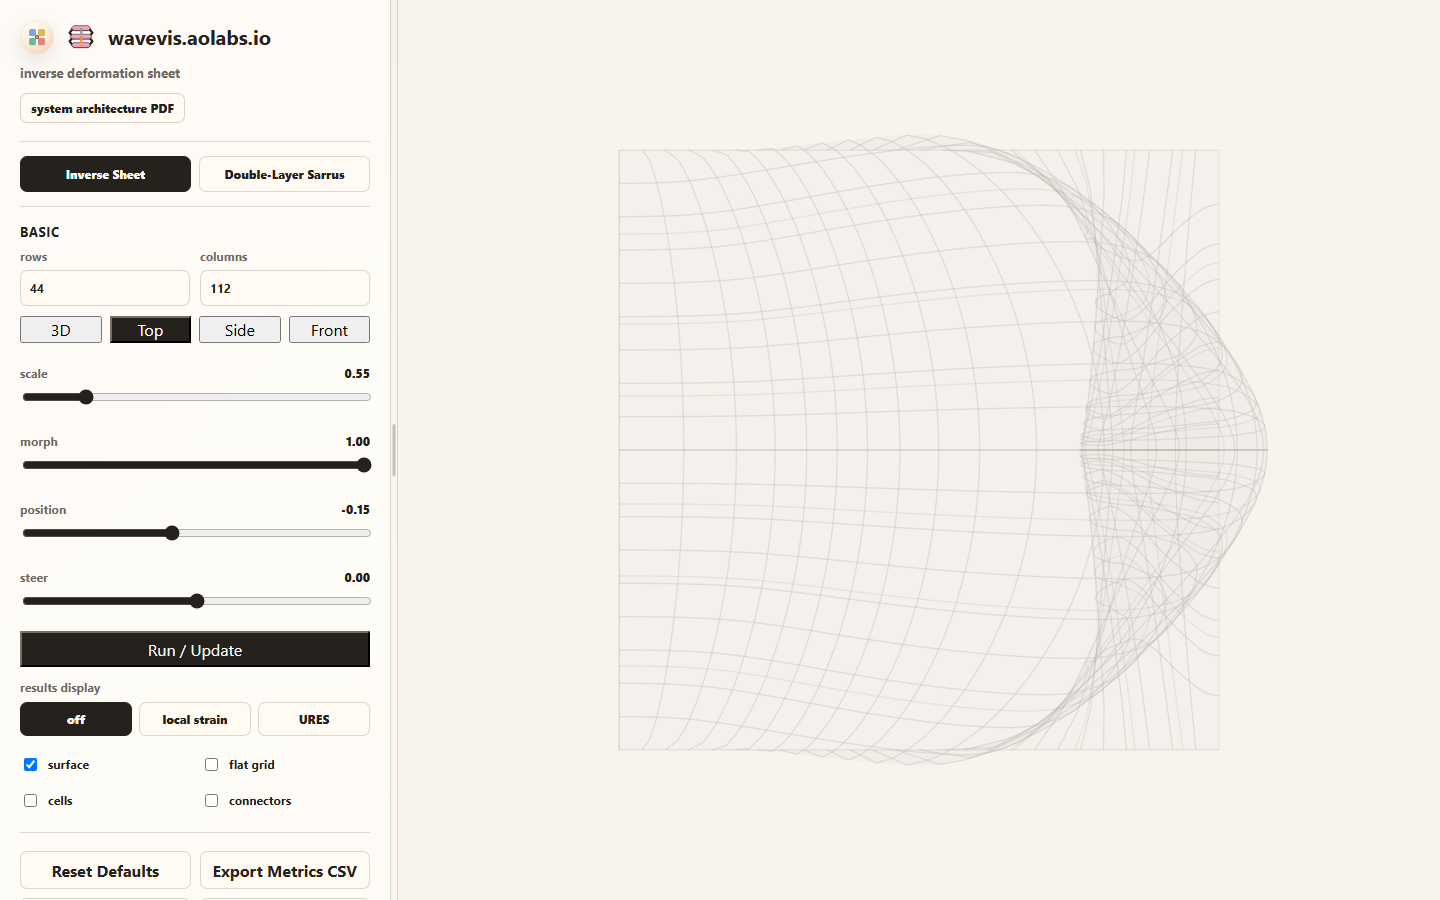
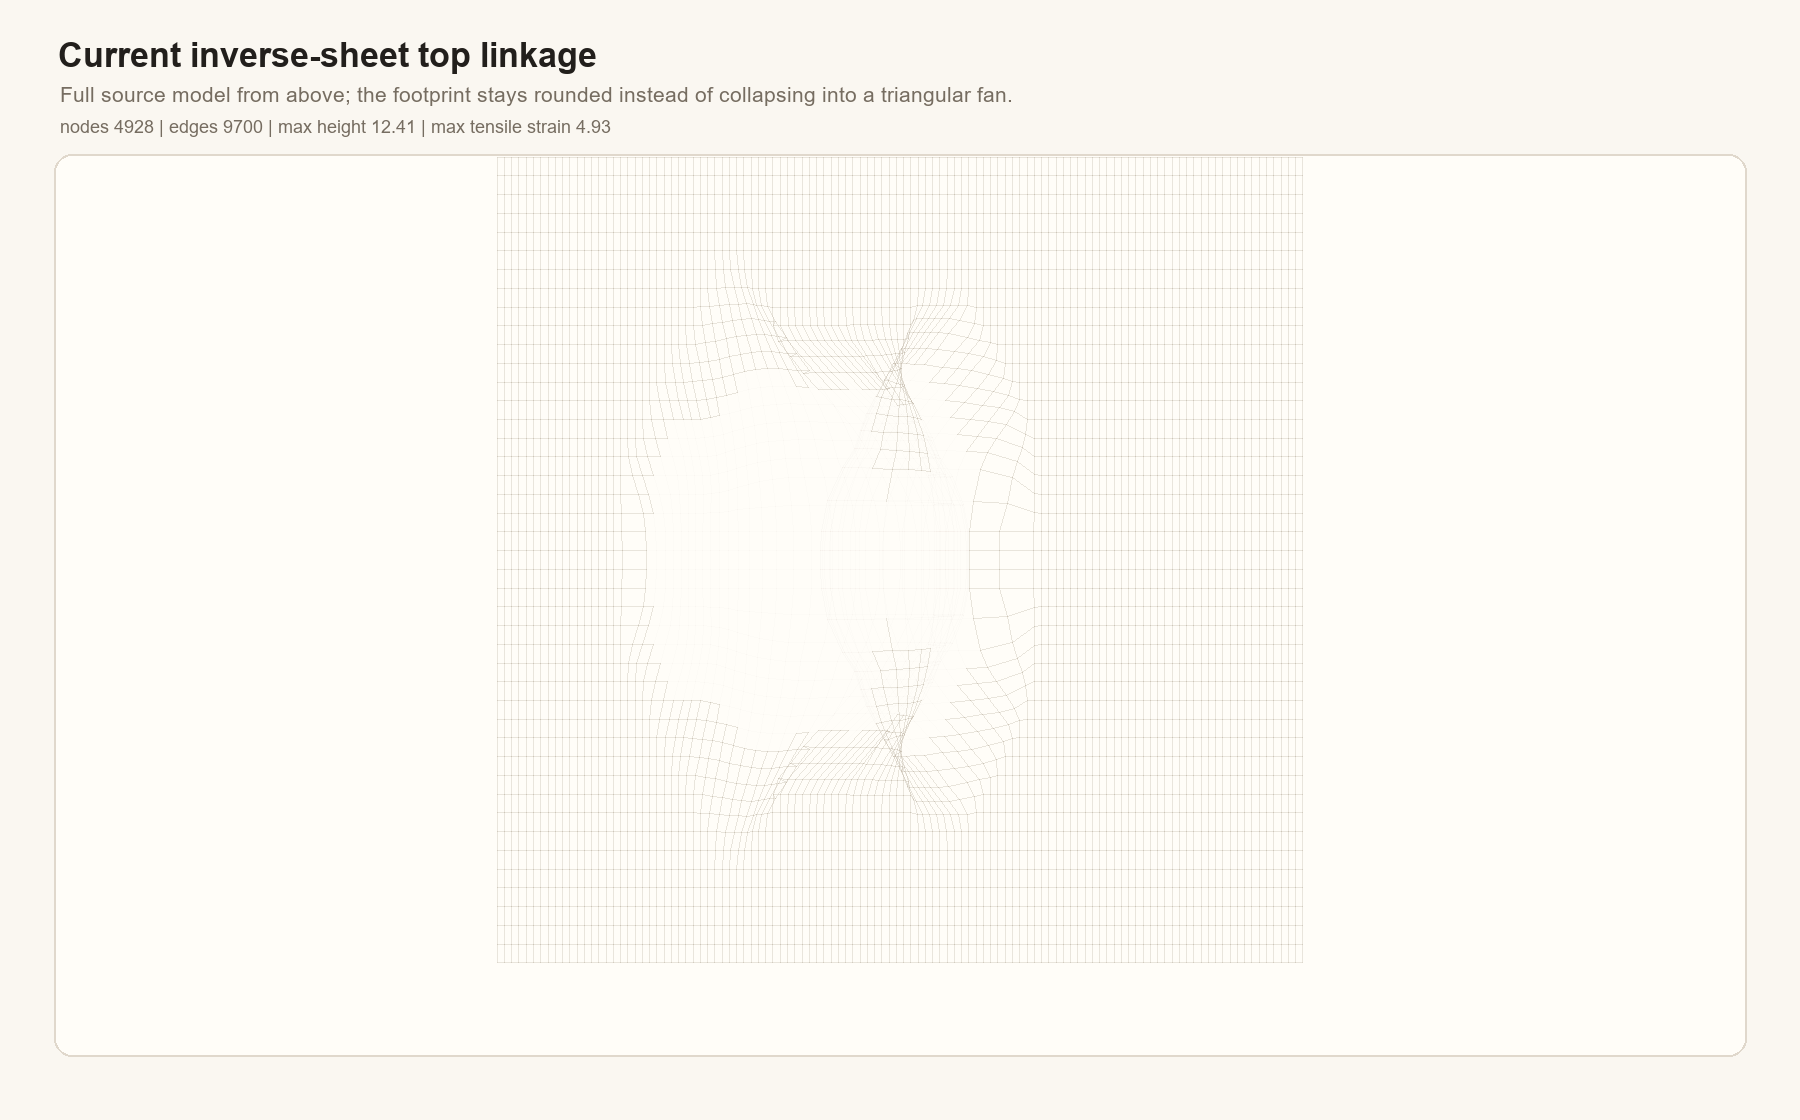
Checkpoint WaveVis constrained curl render

diff --git a/src/rigidCellMechanism.ts b/src/rigidCellMechanism.ts
@@ -17,6 +17,10 @@ export type RigidCellMechanismStats = {
   maxLegLengthSpread: number
   maxPairLengthSpread: number
   maxOppositeColinearErrorDeg: number
+  maxCellOppositePairLengthSpread: number
+  maxCellOppositeColinearErrorDeg: number
+  maxCellOppositeCenterResidual: number
+  checkedCellOppositePairCount: number
   maxOrthogonalityErrorDeg: number
   maxConnectorPathBendDeg: number
   maxExpectedArmCountResidual: number
@@ -123,6 +127,10 @@ export function rigidCellMechanismStats(model: LatticeModel): RigidCellMechanism
   let maxLegLengthSpread = 0
   let maxPairLengthSpread = 0
   let maxOppositeColinearErrorDeg = 0
+  let maxCellOppositePairLengthSpread = 0
+  let maxCellOppositeColinearErrorDeg = 0
+  let maxCellOppositeCenterResidual = 0
+  let checkedCellOppositePairCount = 0
   let maxOrthogonalityErrorDeg = 0
   let maxExpectedArmCountResidual = 0
   let minInteriorConnectedArmCount = Infinity
@@ -149,6 +157,27 @@ export function rigidCellMechanismStats(model: LatticeModel): RigidCellMechanism
     if (connectedLengths.length >= 2) {
       maxLegLengthSpread = Math.max(maxLegLengthSpread, Math.max(...connectedLengths) - Math.min(...connectedLengths))
     }
+
+    const measureOppositePair = (negativeEndpoint: Vec3, positiveEndpoint: Vec3) => {
+      const negativeLeg = subtractVec(negativeEndpoint, frame.center)
+      const positiveLeg = subtractVec(positiveEndpoint, frame.center)
+      maxCellOppositePairLengthSpread = Math.max(
+        maxCellOppositePairLengthSpread,
+        Math.abs(lengthVec(negativeLeg) - lengthVec(positiveLeg)),
+      )
+      maxCellOppositeColinearErrorDeg = Math.max(
+        maxCellOppositeColinearErrorDeg,
+        angleDeg(positiveLeg, scaleVec(negativeLeg, -1)),
+      )
+      maxCellOppositeCenterResidual = Math.max(
+        maxCellOppositeCenterResidual,
+        distanceVec(scaleVec(addVec(negativeEndpoint, positiveEndpoint), 0.5), frame.center),
+      )
+      checkedCellOppositePairCount += 1
+    }
+
+    if (eastEndpoint && westEndpoint) measureOppositePair(westEndpoint, eastEndpoint)
+    if (northEndpoint && southEndpoint) measureOppositePair(southEndpoint, northEndpoint)
 
     if (eastEndpoint && westEndpoint && northEndpoint && southEndpoint) {
       const visualXAxis = subtractVec(eastEndpoint, westEndpoint)
@@ -199,6 +228,10 @@ export function rigidCellMechanismStats(model: LatticeModel): RigidCellMechanism
     maxLegLengthSpread,
     maxPairLengthSpread,
     maxOppositeColinearErrorDeg,
+    maxCellOppositePairLengthSpread,
+    maxCellOppositeColinearErrorDeg,
+    maxCellOppositeCenterResidual,
+    checkedCellOppositePairCount,
     maxOrthogonalityErrorDeg,
     maxConnectorPathBendDeg,
     maxExpectedArmCountResidual,
@@ -265,15 +298,78 @@ function buildPairwiseOppositeConnectorMap(
 ): Map<string, Vec3> {
   const connectorByEdgeId = new Map<string, Vec3>()
 
+  for (let row = 0; row < model.config.rows; row += 1) {
+    const centers = Array.from({ length: model.config.columns }, (_value, col) =>
+      frameByNodeId.get(nodeId(row, col))?.center)
+    const edgeIds = Array.from({ length: Math.max(model.config.columns - 1, 0) }, (_value, col) =>
+      `e-h-${row}-${col}`)
+    addSolvedOppositePairChain(connectorByEdgeId, centers, edgeIds)
+  }
+
+  for (let col = 0; col < model.config.columns; col += 1) {
+    const centers = Array.from({ length: model.config.rows }, (_value, row) =>
+      frameByNodeId.get(nodeId(row, col))?.center)
+    const edgeIds = Array.from({ length: Math.max(model.config.rows - 1, 0) }, (_value, row) =>
+      `e-v-${row}-${col}`)
+    addSolvedOppositePairChain(connectorByEdgeId, centers, edgeIds)
+  }
+
   model.edges.forEach((edge) => {
+    if (connectorByEdgeId.has(edge.id)) return
     const frameA = frameByNodeId.get(edge.nodeA)
     const frameB = frameByNodeId.get(edge.nodeB)
     if (!frameA || !frameB) return
-
     connectorByEdgeId.set(edge.id, scaleVec(addVec(frameA.center, frameB.center), 0.5))
   })
 
   return connectorByEdgeId
+}
+
+function addSolvedOppositePairChain(
+  connectorByEdgeId: Map<string, Vec3>,
+  maybeCenters: Array<Vec3 | undefined>,
+  edgeIds: string[],
+): void {
+  if (!edgeIds.length) return
+  if (maybeCenters.some((center) => !center)) {
+    edgeIds.forEach((edgeId, index) => {
+      const before = maybeCenters[index]
+      const after = maybeCenters[index + 1]
+      if (!before || !after) return
+      connectorByEdgeId.set(edgeId, scaleVec(addVec(before, after), 0.5))
+    })
+    return
+  }
+
+  const centers = maybeCenters as Vec3[]
+  solveOppositePairConnectors(centers).forEach((connector, index) => {
+    const edgeId = edgeIds[index]
+    if (!edgeId) return
+    connectorByEdgeId.set(edgeId, connector)
+  })
+}
+
+function solveOppositePairConnectors(centers: Vec3[]): Vec3[] {
+  const connectorCount = Math.max(centers.length - 1, 0)
+  if (connectorCount <= 0) return []
+  if (connectorCount === 1) return [scaleVec(addVec(centers[0], centers[1]), 0.5)]
+
+  const signs: number[] = [1]
+  const offsets: Vec3[] = [[0, 0, 0]]
+
+  for (let connectorIndex = 1; connectorIndex < connectorCount; connectorIndex += 1) {
+    signs[connectorIndex] = -signs[connectorIndex - 1]
+    offsets[connectorIndex] = subtractVec(scaleVec(centers[connectorIndex], 2), offsets[connectorIndex - 1])
+  }
+
+  let freeSum: Vec3 = [0, 0, 0]
+  for (let connectorIndex = 0; connectorIndex < connectorCount; connectorIndex += 1) {
+    const midpointTarget = scaleVec(addVec(centers[connectorIndex], centers[connectorIndex + 1]), 0.5)
+    freeSum = addVec(freeSum, scaleVec(subtractVec(midpointTarget, offsets[connectorIndex]), signs[connectorIndex]))
+  }
+
+  const free = scaleVec(freeSum, 1 / connectorCount)
+  return offsets.map((offset, index) => addVec(offset, scaleVec(free, signs[index])))
 }
 
 function applyConnectedArmEndpoints(

diff --git a/src/LatticeViewer3D.tsx b/src/LatticeViewer3D.tsx
@@ -19,6 +19,7 @@ import type {
 } from './inverseSheetTypes'
 import { colorForQuad, legendForMode } from './metricVisuals'
 import { canvasResizeObserver } from './resizeObserverPolyfill'
+import { buildRigidCellMechanism } from './rigidCellMechanism'
 
 const inverseLinkageColor = '#111111'
 const inverseCellBodyColor = '#2f3130'
@@ -255,7 +256,7 @@ function LatticeModelGroup({
             radius={edgePickRadius}
             onEdgePick={onEdgePick}
           />
-          <StraightEdgeSegments nodes={nodeById} scope={renderScope} />
+          <StraightEdgeSegments model={model} nodes={nodeById} scope={renderScope} />
         </>
       )}
       {view === 'isometric' && model.config.showHeatmap && (
@@ -292,15 +293,15 @@ const readableReferenceProfilePoints =
   '0,0;0.06,0.006;0.14,0.03;0.24,0.12;0.35,0.32;0.47,0.58;0.59,0.8;0.71,0.94;0.82,0.97;0.91,0.89;0.975,0.71;1,0.55;0.972,0.43;0.925,0.395;0.875,0.455;0.835,0.565;0.79,0.61;0.75,0.54;0.742,0.4;0.785,0.245;0.875,0.115;0.965,0.035;1,0'
 
 function readableSurfaceReferenceOnly(model: LatticeModel): boolean {
-  return model.config.showSurface && !model.config.showHeatmap && !model.config.showNodes && !model.config.showEdges
+  return model.config.showSurface && !model.config.showHeatmap && !model.config.showNodes
 }
 
 function ReadableWaveSurface({ model, view }: { model: LatticeModel; view: CameraViewRequest['view'] }) {
   const surfaceGeometry = useMemo(() => buildReadableWaveSurfaceGeometry(model), [model])
   const wireGeometry = useMemo(() => buildReadableWaveWireGeometry(model, view), [model, view])
   const outlineGeometry = useMemo(() => buildReadableWaveOutlineGeometry(model, view), [model, view])
-  const surfaceOpacity = view === 'side' ? 0.52 : view === 'front' ? 0.66 : view === 'top' ? 0.14 : 0.54
-  const wireOpacity = view === 'side' ? 0.28 : view === 'front' ? 0.42 : view === 'top' ? 0.4 : 0.4
+  const surfaceOpacity = view === 'side' ? 0.34 : view === 'front' ? 0.66 : view === 'top' ? 0.14 : 0.54
+  const wireOpacity = view === 'side' ? 0.38 : view === 'front' ? 0.42 : view === 'top' ? 0.4 : 0.4
   const outlineOpacity = view === 'side' ? 0.78 : view === 'front' ? 0.56 : view === 'top' ? 0.12 : 0.26
 
   return (
@@ -848,9 +849,11 @@ function NodeInstances({
 }
 
 function StraightEdgeSegments({
+  model,
   nodes,
   scope,
 }: {
+  model: LatticeModel
   nodes: Map<string, LatticeNode>
   scope: NodeEdgeRenderScope
 }) {
@@ -858,17 +861,32 @@ function StraightEdgeSegments({
   const splitIsometricEdges = scope.isometricView
   const geometries = useMemo(() => {
     const buildGeometry = (edges: LatticeEdge[]) => {
-      const positions = new Float32Array(edges.length * 2 * 3)
-      edges.forEach((edge, index) => {
-        writeVec(positions, index * 6, nodes.get(edge.nodeA)?.currentPosition ?? [0, 0, 0])
-        writeVec(positions, index * 6 + 3, nodes.get(edge.nodeB)?.currentPosition ?? [0, 0, 0])
+      const positions = new Float32Array(edges.length * 4 * 3)
+      let segmentIndex = 0
+
+      edges.forEach((edge) => {
+        const frameA = mechanism.frameByNodeId.get(edge.nodeA)
+        const frameB = mechanism.frameByNodeId.get(edge.nodeB)
+        const connector = mechanism.connectorByEdgeId.get(edge.id)
+        if (!frameA || !frameB || !connector) return
+
+        writeVec(positions, segmentIndex * 6, frameA.center)
+        writeVec(positions, segmentIndex * 6 + 3, connector)
+        segmentIndex += 1
+        writeVec(positions, segmentIndex * 6, frameB.center)
+        writeVec(positions, segmentIndex * 6 + 3, connector)
+        segmentIndex += 1
       })
 
       const nextGeometry = new THREE.BufferGeometry()
-      nextGeometry.setAttribute('position', new THREE.BufferAttribute(positions, 3))
+      nextGeometry.setAttribute('position', new THREE.BufferAttribute(
+        segmentIndex === edges.length * 2 ? positions : positions.slice(0, segmentIndex * 6),
+        3,
+      ))
       return nextGeometry
     }
 
+    const mechanism = buildRigidCellMechanism(model)
     const nodeValues = [...nodes.values()]
     const profileEdges = scope.edges.filter((edge) => edge.orientation === 'horizontal')
     const spanEdges = scope.edges.filter((edge) => edge.orientation === 'vertical')
@@ -995,22 +1013,22 @@ function StraightEdgeSegments({
       topPlan: null,
       topFold: null,
     }
-  }, [nodes, scope.edges, scope.topView, splitIsometricEdges, splitSideEdges])
+  }, [model, nodes, scope.edges, scope.topView, splitIsometricEdges, splitSideEdges])
 
   if (splitIsometricEdges && geometries.profileActive && geometries.profileFlat && geometries.spanActive && geometries.spanFlat) {
     return (
       <>
         <lineSegments geometry={geometries.spanFlat} renderOrder={0}>
-          <lineBasicMaterial color="#312f2a" transparent opacity={0.018} depthTest depthWrite={false} />
+          <lineBasicMaterial color="#312f2a" transparent opacity={0.01} depthTest depthWrite={false} />
         </lineSegments>
         <lineSegments geometry={geometries.profileFlat} renderOrder={1}>
-          <lineBasicMaterial color="#26241f" transparent opacity={0.05} depthTest depthWrite={false} />
+          <lineBasicMaterial color="#26241f" transparent opacity={0.025} depthTest depthWrite={false} />
         </lineSegments>
         <lineSegments geometry={geometries.spanActive} renderOrder={2}>
-          <lineBasicMaterial color={inverseLinkageColor} transparent opacity={0.1} depthTest={false} depthWrite={false} />
+          <lineBasicMaterial color={inverseLinkageColor} transparent opacity={0.045} depthTest={false} depthWrite={false} />
         </lineSegments>
         <lineSegments geometry={geometries.profileActive} renderOrder={3}>
-          <lineBasicMaterial color={inverseLinkageColor} transparent opacity={0.68} depthTest={false} depthWrite={false} />
+          <lineBasicMaterial color={inverseLinkageColor} transparent opacity={0.18} depthTest={false} depthWrite={false} />
         </lineSegments>
       </>
     )
@@ -1029,25 +1047,25 @@ function StraightEdgeSegments({
     return (
       <>
         <lineSegments geometry={geometries.spanFlat} renderOrder={0}>
-          <lineBasicMaterial color="#5b5851" transparent opacity={0.004} depthTest={false} depthWrite={false} />
+          <lineBasicMaterial color="#5b5851" transparent opacity={0.003} depthTest={false} depthWrite={false} />
         </lineSegments>
         <lineSegments geometry={geometries.profileFlat} renderOrder={1}>
-          <lineBasicMaterial color="#3d3a34" transparent opacity={0.006} depthTest={false} depthWrite={false} />
+          <lineBasicMaterial color="#3d3a34" transparent opacity={0.005} depthTest={false} depthWrite={false} />
         </lineSegments>
         <lineSegments geometry={geometries.spanSoftActive} renderOrder={2}>
-          <lineBasicMaterial color="#4f4d47" transparent opacity={0.0015} depthTest={false} depthWrite={false} />
+          <lineBasicMaterial color="#4f4d47" transparent opacity={0.001} depthTest={false} depthWrite={false} />
         </lineSegments>
         <lineSegments geometry={geometries.profileSoftActive} renderOrder={3}>
-          <lineBasicMaterial color="#34322d" transparent opacity={0.002} depthTest={false} depthWrite={false} />
+          <lineBasicMaterial color="#34322d" transparent opacity={0.0015} depthTest={false} depthWrite={false} />
         </lineSegments>
         <lineSegments geometry={geometries.spanActive} renderOrder={4}>
-          <lineBasicMaterial color="#22221f" transparent opacity={0.01} depthTest={false} depthWrite={false} />
+          <lineBasicMaterial color="#22221f" transparent opacity={0.006} depthTest={false} depthWrite={false} />
         </lineSegments>
         <lineSegments geometry={geometries.profileActive} renderOrder={5}>
-          <lineBasicMaterial color={inverseLinkageColor} transparent opacity={0.012} depthTest={false} depthWrite={false} />
+          <lineBasicMaterial color={inverseLinkageColor} transparent opacity={0.014} depthTest={false} depthWrite={false} />
         </lineSegments>
         <lineSegments geometry={geometries.profileRimActive} renderOrder={6}>
-          <lineBasicMaterial color={inverseLinkageColor} transparent opacity={0.035} depthTest={false} depthWrite={false} />
+          <lineBasicMaterial color={inverseLinkageColor} transparent opacity={0.04} depthTest={false} depthWrite={false} />
         </lineSegments>
       </>
     )
@@ -1171,18 +1189,23 @@ function SelectedHighlight({
   nodeById: Map<string, LatticeNode>
   view: CameraViewRequest['view']
 }) {
+  const mechanism = useMemo(() => buildRigidCellMechanism(model), [model])
   if (!selected) return null
   const sideLikeView = view === 'side' || view === 'isometric' || view === 'front'
 
   if (selected.kind === 'edge') {
     const edge = model.edges.find((candidate) => candidate.id === selected.id)
     if (sideLikeView && edge?.orientation !== 'horizontal') return null
-    const nodeA = edge ? nodeById.get(edge.nodeA) : undefined
-    const nodeB = edge ? nodeById.get(edge.nodeB) : undefined
-    if (!edge || !nodeA || !nodeB) return null
+    const frameA = edge ? mechanism.frameByNodeId.get(edge.nodeA) : undefined
+    const frameB = edge ? mechanism.frameByNodeId.get(edge.nodeB) : undefined
+    const connector = edge ? mechanism.connectorByEdgeId.get(edge.id) : undefined
+    if (!edge || !frameA || !frameB || !connector) return null
 
     return (
-      <TubeSegment start={nodeA.currentPosition} end={nodeB.currentPosition} radius={0.04} color="#f5d84b" />
+      <group>
+        <TubeSegment start={frameA.center} end={connector} radius={0.04} color="#f5d84b" />
+        <TubeSegment start={frameB.center} end={connector} radius={0.04} color="#f5d84b" />
+      </group>
     )
   }
 

diff --git a/src/latticeGeometry.ts b/src/latticeGeometry.ts
@@ -89,7 +89,7 @@ export const DEFAULT_INVERSE_SHEET_CONFIG: InverseSheetConfig = {
   showSurface: true,
   showRestGhost: false,
   showNodes: false,
-  showEdges: false,
+  showEdges: true,
   showLabels: false,
   showHeatmap: false,
   colorMode: 'edgeStrain',